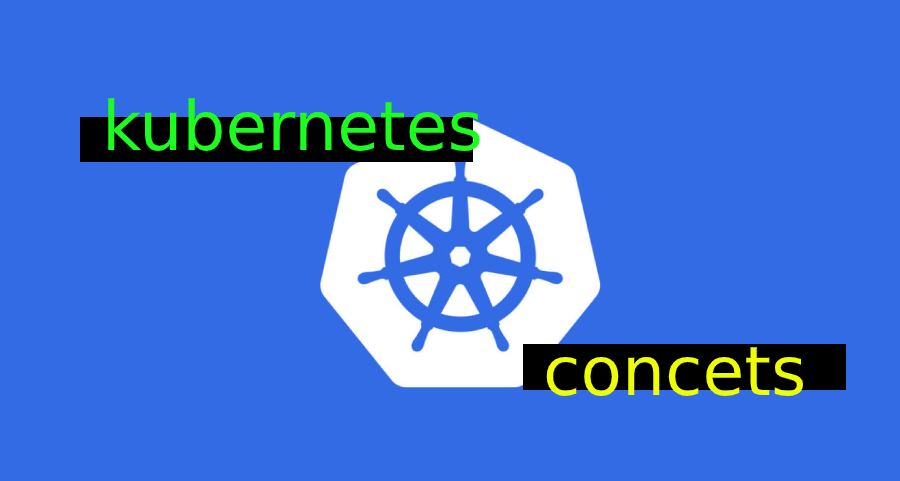
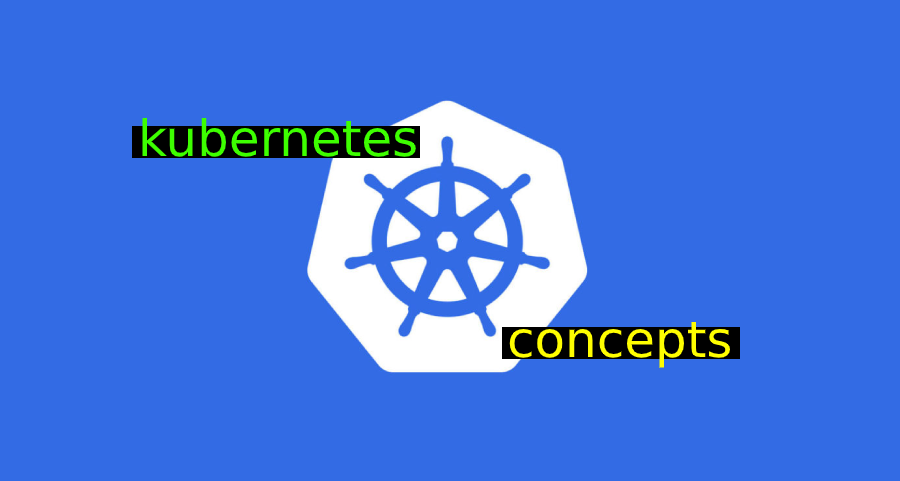
formatting

Changed region(s): [[0.0622, 0.1871, 0.9644, 0.842]]

diff --git a/pages/blog/_slug.vue b/pages/blog/_slug.vue
@@ -302,7 +302,6 @@ export default {
     display: inline;
     color: $secondary;
     font-size: 14px;
-    padding: 0.2em 0.4em;
 
     @media (min-width: $screen-sm) {
       font-size: 16px;

diff --git a/contents/en/blog/kubernetes-concepts.md b/contents/en/blog/kubernetes-concepts.md
@@ -10,15 +10,21 @@ description: |
   Container orchestration, Kubernetes Architecture and Practices
 ---
 
-## What is Container Ochestration?
+In my [last post](https://yyna.dev/en/blog/learn-about-containers-before-studying-kubernetes), before I started studying Kubernetes, I looked at why containers are needed.
 
-Optimizing and automating the deployment process of multiple containers is called container orchestration. To look at three of the most popular tools today,
+In [Kubernetes website](https://kubernetes.io/), Kubernetes introduces itself like this.
+
+> Kubernetes (K8s) is an open-source system for automating deployment, scaling, and management of containerized applications.
+
+Optimizing and automating the deployment process of multiple containers is called `Container Ochestration`. Yes, Kubernetes is a container orchestration tool.
+
+To look at three of the most popular tools today,
 
 - Docker Swarm: Easy, but lacks auto scailing
 - Kubernetes: Most famous, difficult to get started, available on cloud services (GCP, Azure, AWS)
 - Apache Mesos: It's hard to get started, but there are many features
 
-I'm trying to learn Kubernetes which is the most used. 🤓
+I'm trying to learn Kubernetes which is the most popular today. 🔥
 
 <br/><br/>
 
@@ -48,13 +54,21 @@ Kubernetes consists of a master node that manages the cluster and a worker node 
 
 <br/><br/>
 
-## Running local
+## Running on the local machine
 
 - [Minikube](https://kubernetes.io/docs/setup/learning-environment/minikube/)  
-  Since it is difficult to separately configure the Master and Worker nodes in local machine, a cluster in which the Master and Worker nodes are combined is used.
+  Since it is cumbersome to configure the master and worker nodes on local machines, we practice using the minikube cluster in which the master and worker nodes are combined.  
+  Install it referring to the link above.
+
   <image-responsive imageURL="blog/kubernetes-concepts/3.png" width="100%" alt="master-worker"/>
 
-  <image-responsive imageURL="blog/kubernetes-concepts/4.png" width="100%" alt="minikube"/>
+  After installation, run minikube using the command below.
+
+  ```
+  minikube start
+  ```
+
+<image-responsive imageURL="blog/kubernetes-concepts/4.png" width="100%" alt="minikube"/>
 
 - [kubectl](https://kubernetes.io/docs/tasks/tools/install-kubectl/)  
   Command tool for managing Kubernetes clusters. Can be used like this:
@@ -130,6 +144,8 @@ As the number of requests increases/decreases, multiple pods are created for hig
 ReplicaSet is a new object developed to improve Replication Controller. You can easily see the difference by looking at the YAML file.
 
 ```yaml
+## YAML of ReplicationController
+
 apiVersion: v1
 kind: ReplicationController
 metadata:
@@ -147,6 +163,8 @@ template:
 ```
 
 ```yaml
+## YAML of ReplicaSet
+
 apiVersion: apps/v1
 kind: ReplicaSet
 metadata:
@@ -198,7 +216,7 @@ spec:
 If there is a Pod whose label is `type: front-end`, include it in ReplicaSet, and if additional creation is needed, create a new Pod using spec > template information.  
 ⭐ Therefore, the label information of the template must match the selector information. ⭐
 
-```base
+```
 kubectl create -f replicaset-definition.yaml
 ```
 
@@ -206,10 +224,12 @@ kubectl create -f replicaset-definition.yaml
 
 Since there is one myapp-pod created above, you can see that only two pods are created.
 Really keep three? I'm curious, so let's delete one.
-<image-responsive imageURL="blog/kubernetes-concepts/10.png" width="100%" alt="delete-pod"/>
+
 ReplicaSet is working hard to keep 3 pods! 😆
 
-### How to scale
+<image-responsive imageURL="blog/kubernetes-concepts/10.png" width="100%" alt="delete-pod"/>
+
+### How to scale 🏗
 
 Let's increase the number of pods to 6. There are two ways.
 
@@ -226,7 +246,7 @@ Let's increase the number of pods to 6. There are two ways.
    kubectl scale --replicas=6 replicaset myapp-replicaset
    ```
 
-In case 2, it is simple, but it is difficult to manage because the number of pods actually created is different from the information defined in the `replicaset-definition.yaml` file. Let's use the first way!
+In case 2, it is simple, but it is difficult to manage because the number of pods actually created is different from the information defined in the `replicaset-definition.yaml` file. **Let's use the first way!**
 
 <image-responsive imageURL="blog/kubernetes-concepts/11.png" width="100%" alt="scale-pod"/>
 
@@ -240,6 +260,7 @@ Deployment is also created by a YAML file.
 
 ```yml
 # deployment-definition.yaml
+
 apiVersion: apps/v1
 kind: Deployment
 metadata:
